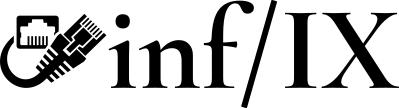
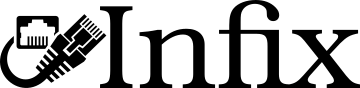
Roll out final product branding
Change all inf/IX or Inf/IX to plain Infix after steering group meeting.

diff --git a/README.md b/README.md
@@ -1,9 +1,9 @@
-<img align="right" src="doc/text3134.png" alt="inf/IX Linux Networking Made Easy">
+<img align="right" src="doc/text3134.png" alt="Infix Linux Networking Made Easy">
 
 Introduction
 ------------
 
-Inf/IX is an embedded Linux Network Operating System (NOS) based on
+Infix is an embedded Linux Network Operating System (NOS) based on
 [Buildroot][1] and [Finit][2].
 
 
@@ -12,7 +12,7 @@ Hardware
 
 ### aarch64
 
-By default, Inf/IX builds with support for the following boards (you
+By default, Infix builds with support for the following boards (you
 may enable additional boards in the config, of course):
 
 - Marvell CN-9130 CRB
